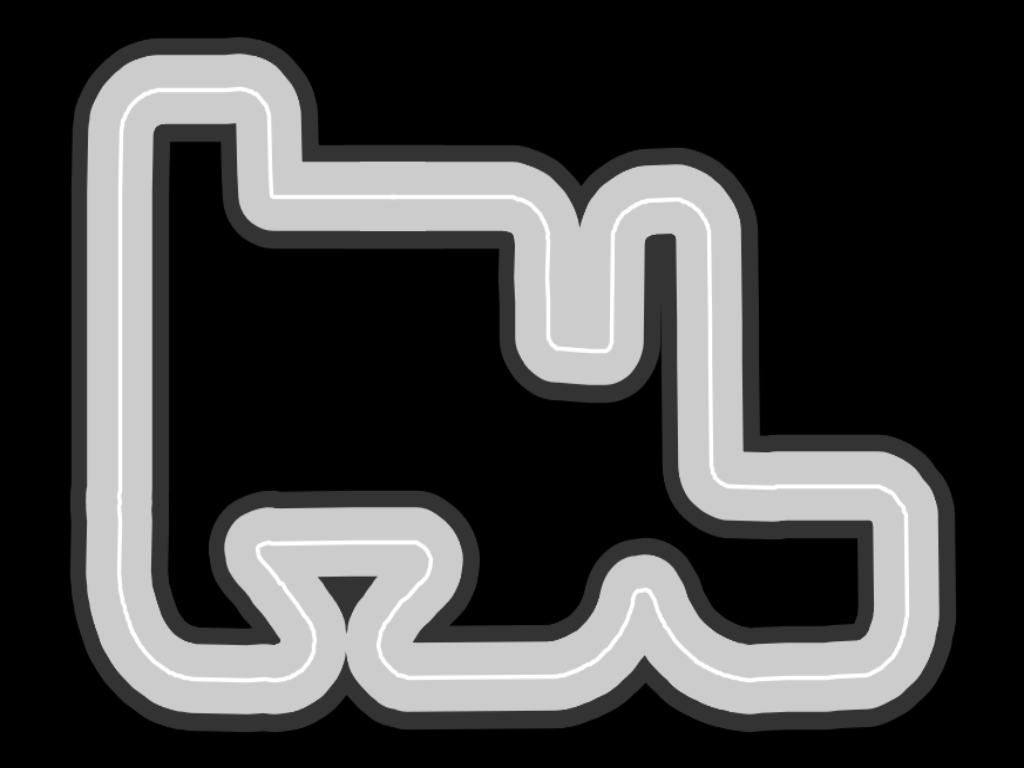
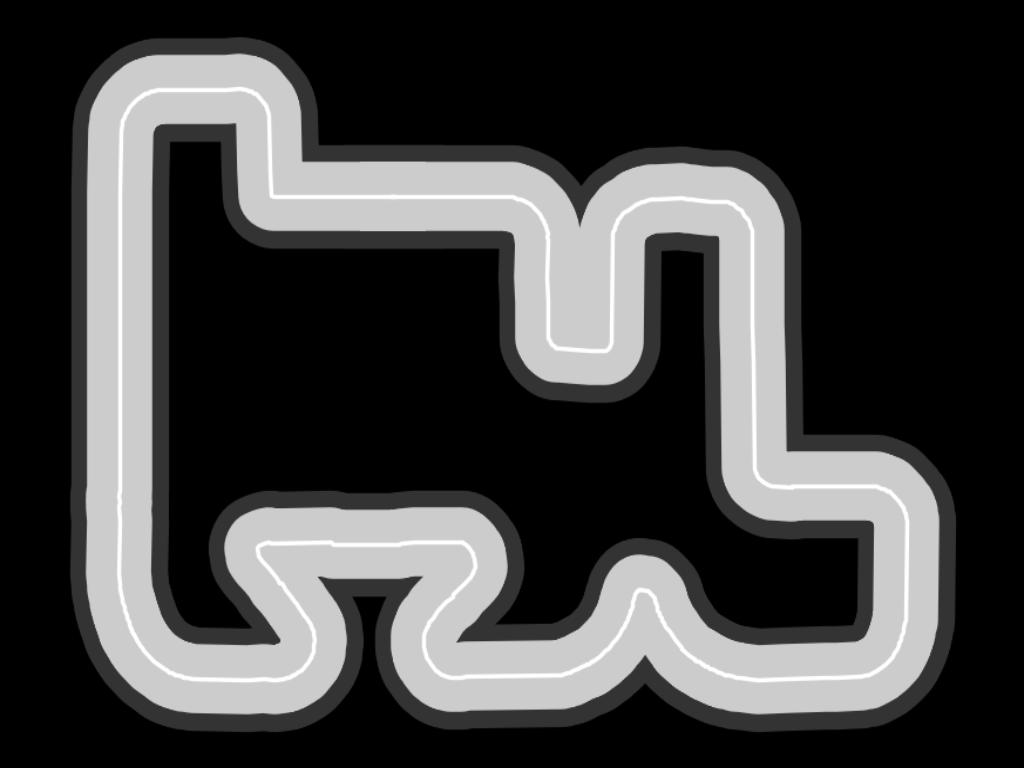
more comments on tracks edited track_5.png to stretch hairpins added modeling and src/controllers folders

diff --git a/Track_Preparation/get_track_info.py b/Track_Preparation/get_track_info.py
@@ -113,8 +113,9 @@ for name in names:
 
     def boundaries(im_original, im_copy, b_left, b_right, track_name='Sebring'):
         """
-        TODO what does it do?
-        :param im_original:
+        Finds right and left asphalt and sand region boundaries.
+
+        :param im_original: TODO
         :param im_copy:
         :param b_left:
         :param b_right:

diff --git a/README.md b/README.md
@@ -207,9 +207,13 @@ The _--record_ option automatically records a .csv file with timestamped filenam
 
 Track information used by _l2race_ is generated by the scripts in _Track_Preparation_ _draw_tracks.py_ and _get_track_info.py_.
 
+
 These scripts must be run from their folder. 
 
-Starting from the track templates in _Track_Preparation/tracks_templates_, they generate the files in the _media/tracks_ folder _track.png_, _track_info.npy_, and _track_map.npy_ needed by track.py.
+Tracks start from monocrhome template most easily. See T*rack_Preparation/track_templates* for examples.
+
+
+Starting from the track templates in _Track_Preparation/tracks_templates_, they generate the files in the _media/tracks_ folder named (for track named _track_) _track.png_, _track_info.npy_, and _track_map.npy_ needed by _track.py_.
 
 Sample runs follow.
 
@@ -238,3 +242,5 @@ Sample runs follow.
     saving ../media/tracks/oval_map.npy and ../media/tracks/oval_info.npy
 
 
+## To make a new track
+TODO marcin
